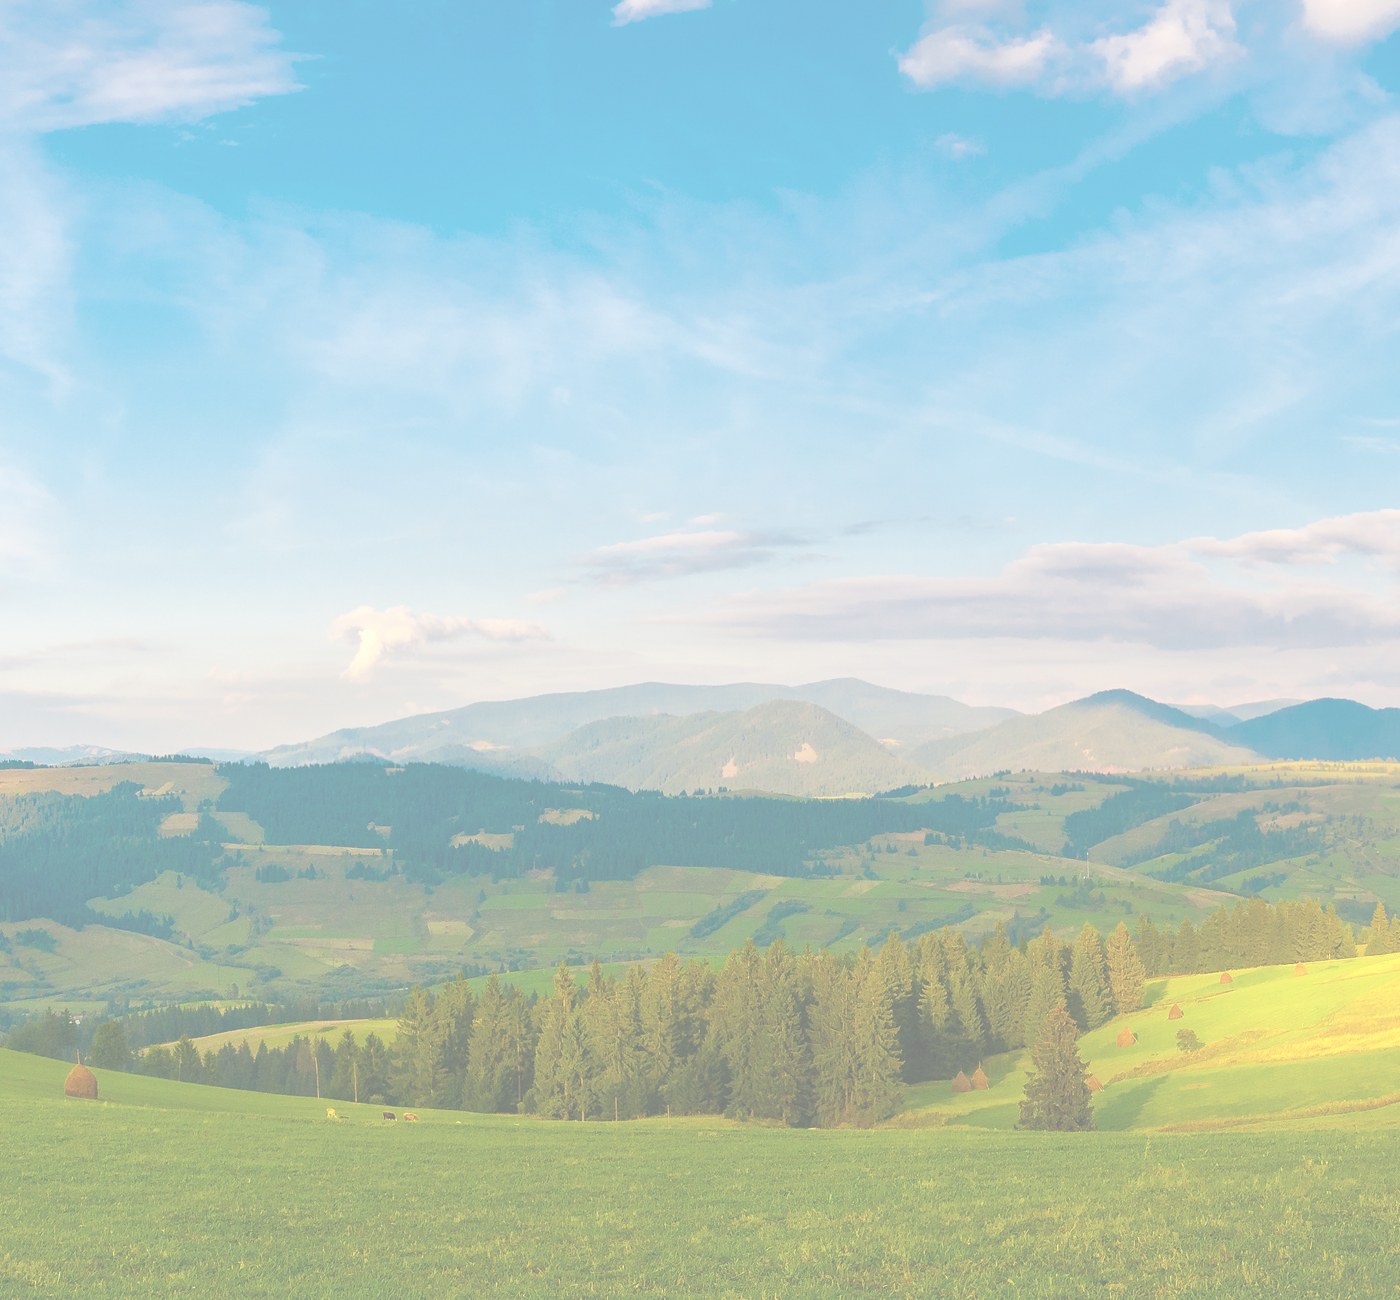
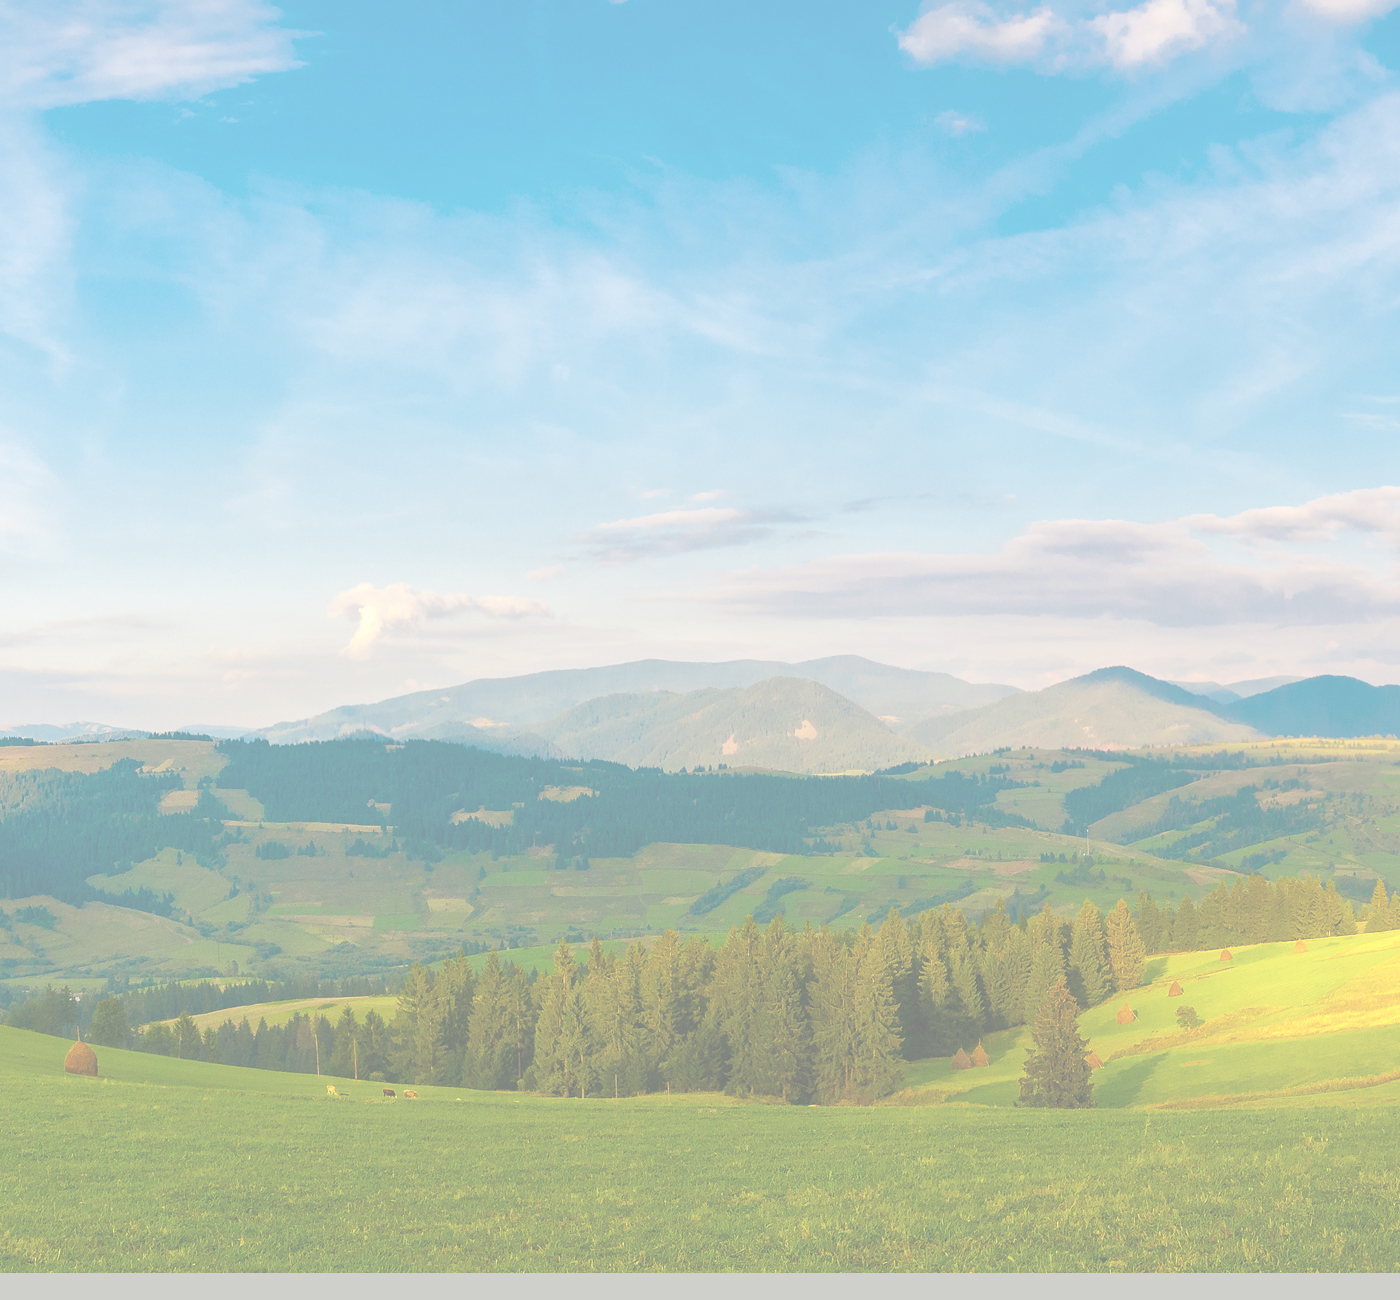
layout changes

diff --git a/resources/css/style.css b/resources/css/style.css
@@ -2,16 +2,20 @@ html {
     background-color: #d0d0cb;
 }
 
-/* ------- MAIN HEADER -------*/
+/* ------- FIRST FRAME SECTION -------*/
 
-
+.first-frame-section {
+    height: 100%;
+    max-height: 830px;
+    width: 100%;
+}
 
 .window-scene img {
     position: fixed;
     right: 0;
     left: 0;
     width: 100%;
-    max-width: 1000px;
+    max-width: 900px;
     margin: 0 auto;
     z-index: -10;
 }
@@ -21,19 +25,25 @@ html {
     background-repeat: no-repeat;
     background-size: contain;
     width: 100%;
-    max-width: 1000px;
-    height: 0;
+    max-width: 900px;
+    height: 100%;
     padding-top: 100%;
     margin: 0 auto;
 }
 
 .title-section {
-    margin-top: -80%;
+    margin-top: 180;
     margin-left: auto;
     margin-right: auto;
     margin-bottom: 0;
     text-align: center;
-    max-width: 1000px;
+    width: 800px;
+    height: 800px;
+    position: absolute;
+    top: 0;
+    bottom: 0;
+    right: 0;
+    left: 0;
 }
 
 .title-daydream {
@@ -41,6 +51,7 @@ html {
     font-size: 175px;
     color: rgba(68, 131, 164, 0.7);
     text-shadow: 2px 8px 5px rgba(169, 169, 169, 0.4);
+    padding-left: 5px;
 }
 
 .title-design {
@@ -49,9 +60,9 @@ html {
     font-weight: bold;
     color: #707070;
     letter-spacing: 75px;
-    padding-left: 75px;
+    padding-left: 88px;
     margin-top: 20px;
-    margin-bottom: 90px;
+    margin-bottom: 80px;
     text-shadow: 2px 10px 3px rgba(169, 169, 169, 0.5);
 }
 
@@ -67,12 +78,21 @@ nav a {
     font-family: 'Dosis', 'Open Sans Condensed', sans-serif;
     color: #cd776a;
     text-decoration: none;
-    font-weight: 500
+    font-weight: 500;
+    font-size: 18px
 }
 
 .nav-box {
     display: flex;
     width: 30%;
     justify-content: center;
-    margin-bottom: 80px;
+    margin-bottom: 100px;
+}
+
+/* ------ SECOND FRAME SECTION ------*/
+
+.second-frame-section {
+    width: auto;
+    height: 800px;
+    background-color: #cd776a;
 }

diff --git a/index.html b/index.html
@@ -19,13 +19,13 @@
         
         <link href="https://fonts.googleapis.com/css?family=Dosis:400,500,600,700|Open+Sans+Condensed:300,700|Poiret+One" rel="stylesheet">
         
-        <!------------ SCRIPTS ------------>
+        <!---------- SCRIPTS ---------->
         
         
     </head>
     
     <body>
-        <!---------- MAIN HEADER ---------->
+        <!---- FIRST FRAME SECTION ------>
         <div class="first-frame-section">   
         <div class="window-scene">
             <img src="resources/images/window_scene.jpg">
@@ -56,6 +56,13 @@
                 <div class="nav-box"><a href="./contact.html">Me</a></div>
             </nav>
         </div>
+            
+        </div>
+        
+        <!---- SECOND FRAME SECTION ----->
+        <div class="second-frame-section">
+        
+                
             
         </div>
     </body>
